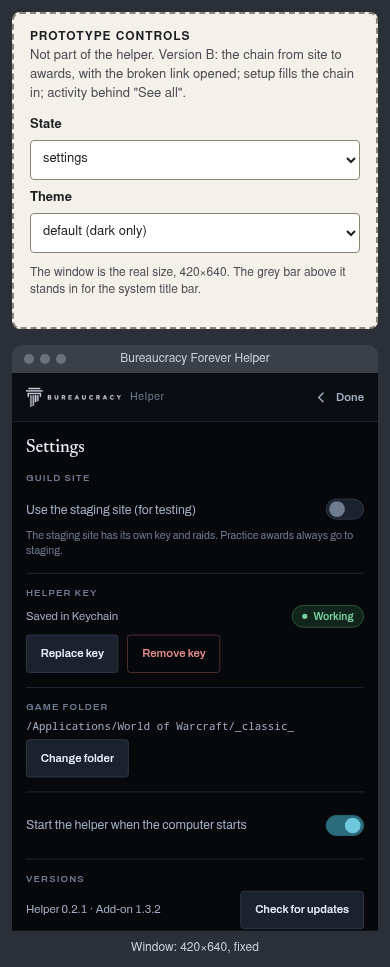
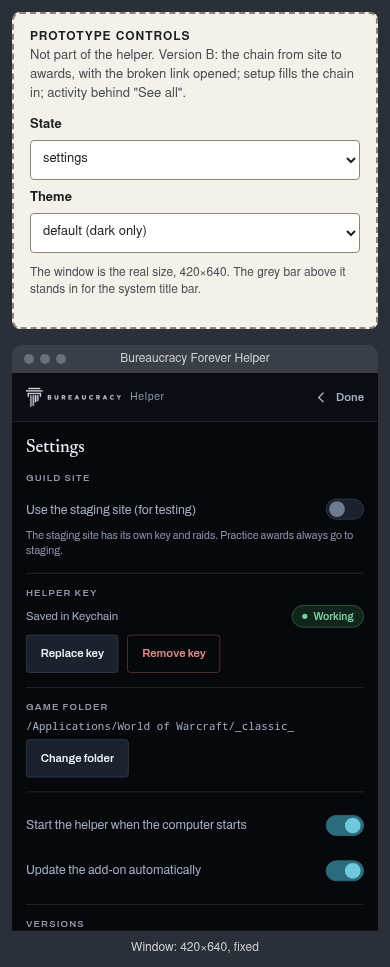
docs(design): helper window revision 3, update the add-on automatically (#46)
* docs(design): add the automatic add-on update switch and addon-updated state (#44)

* docs(design): record revision 3 in brief and decisions (#44)

* docs(design): retake settings, addon-updated and notification screenshots (#44)

* docs(design): keep the site-refused notice wording and retake the notification screenshots (#44)

Changed region(s): [[0.6154, 0.8687, 0.9538, 0.9617], [0.0615, 0.8997, 0.2154, 0.9617], [0.2462, 0.9307, 0.4, 0.9617]]

diff --git a/design/2-helper-window/index.html b/design/2-helper-window/index.html
@@ -194,10 +194,10 @@ html.bare .proto, html.bare .titlebar, html.bare .desk-caption { display:none; }
 .osmenu .dis { color:#8C8C90; }
 .osmenu .sel { background:#2F63D6; color:#fff; }
 .osmenu hr { border:0; border-top:1px solid #47474A; margin:5px 8px; }
-.toast-os { width:350px; background:#2B2B2D; color:#EEE; border:1px solid #4A4A4C; border-radius:14px; padding:12px; display:flex; gap:10px; font:13px/1.35 system-ui,sans-serif; box-shadow:var(--shadow-pop); }
+.toast-os { width:350px; background:#2B2B2D; color:#EEE; border:1px solid #4A4A4C; border-radius:14px; padding:8px 12px; display:flex; gap:10px; font:13px/1.35 system-ui,sans-serif; box-shadow:var(--shadow-pop); }
 .toast-os img { width:36px; height:36px; border-radius:8px; flex:none; }
 .toast-os b { display:block; font-weight:600; margin-bottom:2px; }
-.toast-os .app { color:#9A9AA0; font-size:11px; text-transform:uppercase; letter-spacing:.04em; margin-bottom:3px; }
+.toast-os .app { color:#9A9AA0; font-size:11px; text-transform:uppercase; letter-spacing:.04em; margin-bottom:1px; }
 </style>
 </head><body>
 <script>/* Shared prototype data and helpers. Sample data only: every name is invented. */
@@ -288,6 +288,7 @@ const STATES = {
   'addon-update': { kind: 'main', update: { who: 'addon', phase: 'available' }, status: { tone: 'ok', word: 'Ready', title: 'Ready for tonight', body: 'Reserves are in the game for both raids.' }, raids: RAIDS, sent: 0, waiting: 0, list: ACTS_READY, chain: { ...ok, addon: 'update', reserves: 'ok', awards: 'idle' } },
   'addon-installing': { kind: 'main', update: { who: 'addon', phase: 'installing' }, status: { tone: 'ok', word: 'Ready', title: 'Ready for tonight', body: 'Reserves are in the game for both raids.' }, raids: RAIDS, sent: 0, waiting: 0, list: ACTS_READY, chain: { ...ok, addon: 'installing', reserves: 'ok', awards: 'idle' } },
   'addon-rolled-back': { kind: 'main', update: { who: 'addon', phase: 'rolled-back' }, status: { tone: 'ok', word: 'Ready', title: 'Ready for tonight', body: 'Reserves are in the game for both raids.' }, raids: RAIDS, sent: 0, waiting: 0, list: [{ tone: 'warn', k: 'Add-on update not installed', html: '1.3.2 is still in place.', time: ['8:26 PM', '6:26 PM'] }, ...ACTS_READY], chain: { ...ok, addon: 'rolled-back', reserves: 'ok', awards: 'idle' } },
+  'addon-updated': { kind: 'main', update: { who: 'addon', phase: 'updated' }, status: { tone: 'ok', word: 'Ready', title: 'Ready for tonight', body: 'Reserves are in the game for both raids.' }, raids: RAIDS, sent: 0, waiting: 0, list: [{ tone: 'ok', k: 'Add-on updated', html: 'to 1.4.0.', time: ['8:26 PM', '6:26 PM'] }, ...ACTS_READY], chain: { ...ok, addon: 'updated', reserves: 'ok', awards: 'idle' } },
   tray: { kind: 'tray' },
   notification: { kind: 'notification' },
 };
@@ -304,6 +305,7 @@ const UPDATE = {
   addon: {
     available: { tone: 'info', title: 'Add-on 1.4.0 is ready', body: 'After it installs, type /reload in game, or start the game if it’s closed.', actions: [['Install', 'primary'], ['Later', 'ghost']], link: 'What’s new' },
     installing: { tone: 'info', title: 'Installing add-on 1.4.0…', body: 'Your reserves file is kept.', progress: 70 },
+    updated: { tone: 'ok', title: 'Add-on updated to 1.4.0', body: 'It loads the next time you type /reload or start the game.' },
     'rolled-back': { tone: 'warn', title: 'The add-on update didn’t install', body: 'Add-on 1.3.2 is still in place, with your reserves file. Nothing was lost.', actions: [['Try again', 'secondary']] },
   },
 };
@@ -361,7 +363,8 @@ function settingsBody(staging) {
       <p class="mono">${esc(MAC)}/_classic_</p>
       <div class="row"><button class="btn btn-secondary btn-sm" type="button">Change folder</button></div></section>
     <hr class="divider">
-    <section class="stack">${sw('login', 'Start the helper when the computer starts', true)}</section>
+    <section class="stack">${sw('login', 'Start the helper when the computer starts', true)}
+      ${sw('autoaddon', 'Update the add-on automatically', true)}</section>
     <hr class="divider">
     <section class="stack"><h3 class="th" style="margin:0">Versions</h3>
       <div class="row"><span class="small tabular">Helper 0.2.1 · Add-on 1.3.2</span><span class="spacer"></span><button class="btn btn-secondary btn-sm" type="button">Check for updates</button></div></section>`;
@@ -387,14 +390,16 @@ function trayPreview() {
 }
 function notificationPreview() {
   const n = (title, body) => `<div class="toast-os" role="img" aria-label="Notification: ${title}"><img src="${ICON.tile}" alt=""><div><div class="app">Bureaucracy Forever Helper</div><b>${title}</b>${body}</div></div>`;
-  return `<div class="sys">
-    <p class="sys-note">System notifications, only when the officer has to act. Clicking one opens the window. The system may hide them while the game is full screen.</p>
+  return `<div class="sys" style="gap:6px;padding-top:10px">
+    <p class="sys-note">System notifications. Clicking one opens the window.</p>
     ${n('Type /reload in game', 'Reserves for Molten Core are ready.')}
     ${n('Offline: 4 awards waiting', 'They’ll send when you’re back online.')}
     ${n('Your helper key no longer works', 'Add a new key to keep sending awards.')}
     ${n('The site refused 1 award', 'Check Bindings of the Windseeker on the loot log.')}
     ${n('Helper 0.3.0 is ready to install', 'Open the helper to install it.')}
-    <p class="caption">Never sent: awards sent, reserves written without a change, updates installed.</p>
+    ${n('Add-on updated to 1.4.0', 'Loads on your next /reload or game start.')}
+    ${n('The add-on update didn’t install', 'Add-on 1.3.2 is still in place.')}
+    <p class="caption">Only when the officer has to act, or when the helper installs an add-on update by itself (or that fails). The system may hide them while the game is full screen. Never sent: awards sent, reserves written without a change, an update the officer installed by pressing Install.</p>
   </div>`;
 }
 
@@ -432,7 +437,7 @@ function boot(versionName, versionNote, render) {
 const LINKS = {
   site: { name: 'Guild site', ok: ['ok', 'Connected', 'Connected as Aldric'], offline: ['stop', 'Offline', 'Can’t reach the guild site'], revoked: ['stop', 'Key refused', 'The site refused this key'], off: ['stop', 'Switched off', 'The site isn’t accepting the helper'] },
   folder: { name: 'Game folder', ok: ['ok', 'Found', '…/World of Warcraft/_classic_'] },
-  addon: { name: 'Add-on', ok: ['ok', 'Installed', 'Version 1.3.2'], update: ['warn', 'Update ready', 'Version 1.4.0 is ready'], installing: ['closed', 'Installing', 'Installing 1.4.0'], 'rolled-back': ['warn', 'Not updated', 'Still on 1.3.2'] },
+  addon: { name: 'Add-on', ok: ['ok', 'Installed', 'Version 1.3.2'], update: ['warn', 'Update ready', 'Version 1.4.0 is ready'], installing: ['closed', 'Installing', 'Installing 1.4.0'], updated: ['ok', 'Updated', 'Version 1.4.0'], 'rolled-back': ['warn', 'Not updated', 'Still on 1.3.2'] },
   reserves: { name: 'Reserves', ok: ['ok', 'In the game', 'Next 12 hours'], reload: ['warn', '/reload needed', 'Molten Core changed'], none: ['closed', 'No raids soon', 'None in the next 12 hours'] },
   awards: { name: 'Awards', idle: ['closed', 'None yet', 'They send as they’re handed out'], ok: ['ok', 'Sending', 'Going to Molten Core'], waiting: ['stop', 'Waiting', 'Kept until they can send'], refused: ['warn', '1 refused', 'Others still sending'], damaged: ['stop', 'Stopped', 'Waiting list damaged'] },
 };
@@ -468,7 +473,7 @@ function render(s, slug) {
 
   // The first link that isn't fine opens with the status message and its action.
   const states = ORDER.map(id => [id, s.chain[id]]);
-  const broken = states.find(([, st]) => !['ok', 'idle', 'none'].includes(st));
+  const broken = states.find(([, st]) => !['ok', 'idle', 'none', 'updated'].includes(st));
   const msg = `<p class="small" style="color:var(--fg)">${esc(s.status.body)}</p>${s.status.action ? `<div class="row"><button class="btn btn-${s.status.action.kind} btn-sm" type="button">${s.status.action.label}</button></div>` : ''}`;
   const rows = states.map(([id, st]) => {
     let open = '';

diff --git a/design/2-helper-window/brief.md b/design/2-helper-window/brief.md
@@ -1,8 +1,8 @@
 # Design: the helper's window
 
-- Design issue: #33 (revision 1 was #2)
-- Revision: 2
-- Replaces: revision 1 (#2)
+- Design issue: #44 (revision 2 was #33, revision 1 was #2)
+- Revision: 3
+- Replaces: revision 2 (#33)
 - Source plan: robpaolella/bureaucracy-forever-addon#3 (plan v3, task 30); covered build issues below
 
 ## Job and audience
@@ -32,7 +32,7 @@ helper only shows which raids are ready and which raid awards are going to.
 | #6 | Live award lines in status and activity ("sent", including lines the helper carried for the loot master) | Log parsing |
 | #14 | Sync state: waiting, sending, sent, offline with awards waiting, a record refused, key revoked or site off mid-upload, damaged queue | Queue code |
 | #7 | Helper update: available, downloading/installing, failed (no network, file missing, signature refused, interrupted), never without confirmation | Release workflow (#16), docs (#15) |
-| #8 | Add-on update: available (with the game-closed or `/reload` note), installing, installed, rolled back on failure | — |
+| #8 | Add-on update: available (with the game-closed or `/reload` note), installing, installed, rolled back on failure; the Settings switch “Update the add-on automatically” (on by default): with it on, a release installs by itself, the add-on row shows `addon-updated`, and a notification says so; a failed automatic install shows `addon-rolled-back` with its own notification | — |
 | #24 | Settings switch “Start the helper when the computer starts”, on by default (Robert, answer 8) | Other settings |
 | #1 (done) | Tray / menu bar icon and menu: restyled words, order and status | — |
 
@@ -103,15 +103,16 @@ Classic item names; Mac and Windows paths (`/Applications/World of Warcraft`,
 | site-off | Site switched the helper off mid-use | "The guild site has the helper switched off. Awards are kept and will send when it's back on." | — |
 | queue-damaged | Damaged queue file | "Sending has stopped" / "The list of awards waiting to send is damaged, so the helper stopped sending. Nothing was deleted. The add-on still has every award, and they send again at your next /reload or logout." (each helper uploads the add-on's full list at logout or /reload, and repeats are harmless) | No action that could empty the list |
 | staging | Staging setting on | Permanent band "Staging site"; tray hover text says it | — |
-| settings | Settings view | Site toggle "Use the staging site (for testing)"; Helper key "Saved in Keychain" (Replace, Remove); Game folder (Change); "Start the helper when the computer starts" (on); versions "Helper 0.2.1 · Add-on 1.3.2" (Check for updates) | — |
+| settings | Settings view | Site toggle "Use the staging site (for testing)"; Helper key "Saved in Keychain" (Replace, Remove); Game folder (Change); "Start the helper when the computer starts" (on); "Update the add-on automatically" (on); versions "Helper 0.2.1 · Add-on 1.3.2" (Check for updates) | — |
 | helper-update | Helper update found | "Helper 0.3.0 is ready to install." | Install and restart; Later; What's new |
 | helper-installing | Downloading / installing | "Downloading 0.3.0… 45%" | — |
 | helper-update-failed | Failed, old version kept | "The update couldn't be installed, so you're still on 0.2.1." + reason: no network / file missing / safety check failed (nothing installed) / download interrupted | Try again |
-| addon-update | Add-on update found | "Add-on 1.4.0 is ready. Close the game or type /reload after it installs." (from the release notes) | Install; Later |
+| addon-update | Add-on update found, with “Update the add-on automatically” off | "Add-on 1.4.0 is ready. Close the game or type /reload after it installs." (from the release notes) | Install; Later |
 | addon-installing | Installing | "Installing add-on 1.4.0…" | — |
-| addon-rolled-back | Install failed | "The add-on update didn't install, so 1.3.2 is still in place. Your reserves file was kept." | Try again |
+| addon-updated | Add-on installed by itself (switch on) | Add-on row green, “Updated”, Version 1.4.0; note "It loads the next time you type /reload or start the game." (from the release's “Before you update” notes); Activity line "Add-on updated to 1.4.0" | — |
+| addon-rolled-back | Install failed (by hand or automatic) | "The add-on update didn't install, so 1.3.2 is still in place. Your reserves file was kept." | Try again |
 | tray | Tray icon and menu | Icon in the three statuses, light and dark menu bars; menu: status line (greyed) "Ready · 14 awards sent", "Staging site" when on, Open Bureaucracy Forever Helper, Check for updates, Quit | — |
-| notification | System notification preview | "Bureaucracy Forever Helper" / "Reserves for Molten Core are ready. Type /reload in game." | Clicking opens the window |
+| notification | System notification preview | "Bureaucracy Forever Helper" / "Reserves for Molten Core are ready. Type /reload in game."; also "Add-on updated to 1.4.0" / "Loads on your next /reload or game start." and "The add-on update didn't install" / "Add-on 1.3.2 is still in place." | Clicking opens the window |
 
 Not applicable: **themes** (dark only); **roles** (only officers have keys; a non-officer's
 key is the revoked state); **no permission** (same); **phone/desktop widths** (fixed window).

diff --git a/design/2-helper-window/decisions.md b/design/2-helper-window/decisions.md
@@ -1,7 +1,7 @@
 # Design decisions: the helper's window
 
-- Design issue: #33 (revision 2; revision 1 was #2); covered build issues: #3, #4, #6, #7, #8, #12, #13, #14, #24, #26, #27, #28, #29, #30, #31
-- Revision: 2; replaces: revision 1 (#2)
+- Design issue: #44 (revision 3; revision 2 was #33, revision 1 was #2); covered build issues: #3, #4, #6, #7, #8, #12, #13, #14, #24, #26, #27, #28, #29, #30, #31
+- Revision: 3; replaces: revision 2 (#33)
 - Maker: claude-bridge/claude-opus-5-5 (Opus 5.5), thinking medium
 
 ## Choice and approval
@@ -44,6 +44,17 @@ and [#13](https://github.com/robpaolella/bureaucracy-forever-helper/issues/13#is
   #13 follow this; it is not a design change.
 No other design change. Screenshots were retaken with a newer browser, so unchanged pixels
 inside retaken images may differ slightly from revision 1.
+
+## Revision 3 (2026-10-14, issue #44): update the add-on automatically
+Robert, on #8, choosing option B ([comment](https://github.com/robpaolella/bureaucracy-forever-helper/issues/8#issuecomment-6174002730)): "B, agreed." Option B: an "Update the add-on automatically" switch in Settings, on by default; new versions install by themselves and the officer gets a notice to /reload or restart. Add-on updates then work like CurseForge's.
+- **Settings:** a second switch, "Update the add-on automatically", on by default, the same switch piece and layout as "Start the helper when the computer starts".
+- **Switch on:** a release installs by itself (`addon-installing` shows while it runs), then the new state `addon-updated`: Add-on row green with the new version, a one-line note, an Activity line "Add-on updated to 1.4.0", and one system notification.
+- **Switch off:** `addon-update` is unchanged (Install, Later, What's new).
+- **Failed automatic install:** `addon-rolled-back`, plus a system notification ("The add-on update didn't install. Add-on 1.3.2 is still in place.").
+- **Wording rule:** WoW loads add-on files only at login or /reload, so installing while the game runs is safe; the officer chooses when to reload. The notice never tells them to reload now; it says the update loads the next time they type /reload or start the game. The note's text comes from the release's "Before you update" notes. All wording is draft for Robert's review in Open Design.
+- **Notification set:** `notification` now shows seven notices. To fit them in 420×640 the prototype tightens the list's spacing and the explanatory caption sits at the bottom and scrolls. Existing notice wording is unchanged. The caption now says which add-on notices are sent.
+- **No new kind of element:** the switch, row, notification and Activity line already existed.
+- **Screenshots:** retaken for `settings`, `addon-updated` and `notification` (390, 1440 and real-size 420×640, in `approved/` and the `b-*` copies in `all/`), with new manifests; no other state changed. The 420×640 pictures were taken with viewport 420×640 and `?state=<s>&theme=default&bare=1`. `network.txt` is a separate offline pass over the same three states (the screenshot tool fails while network emulation is Offline); it lists only `file:` and `data:` requests.
 
 ## Alternatives
 A and C were left out. Their final files are in commit f7d8bf7 (`versions/a.html`,
